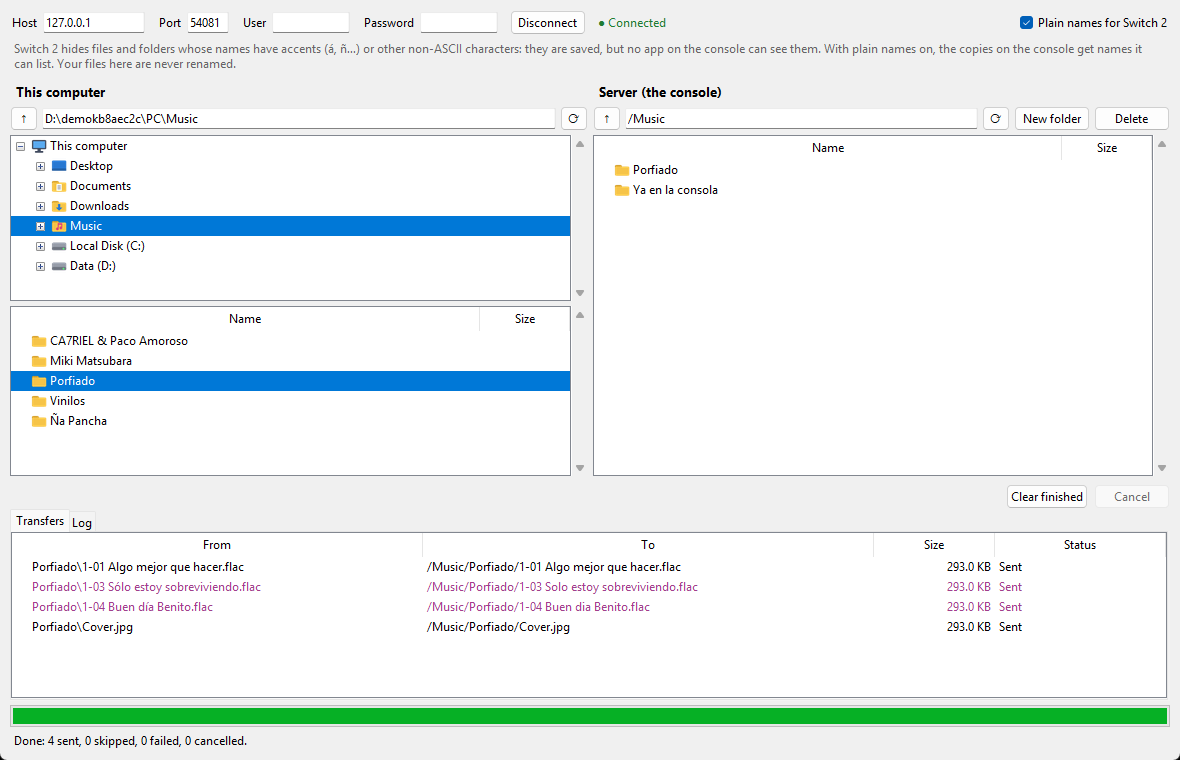
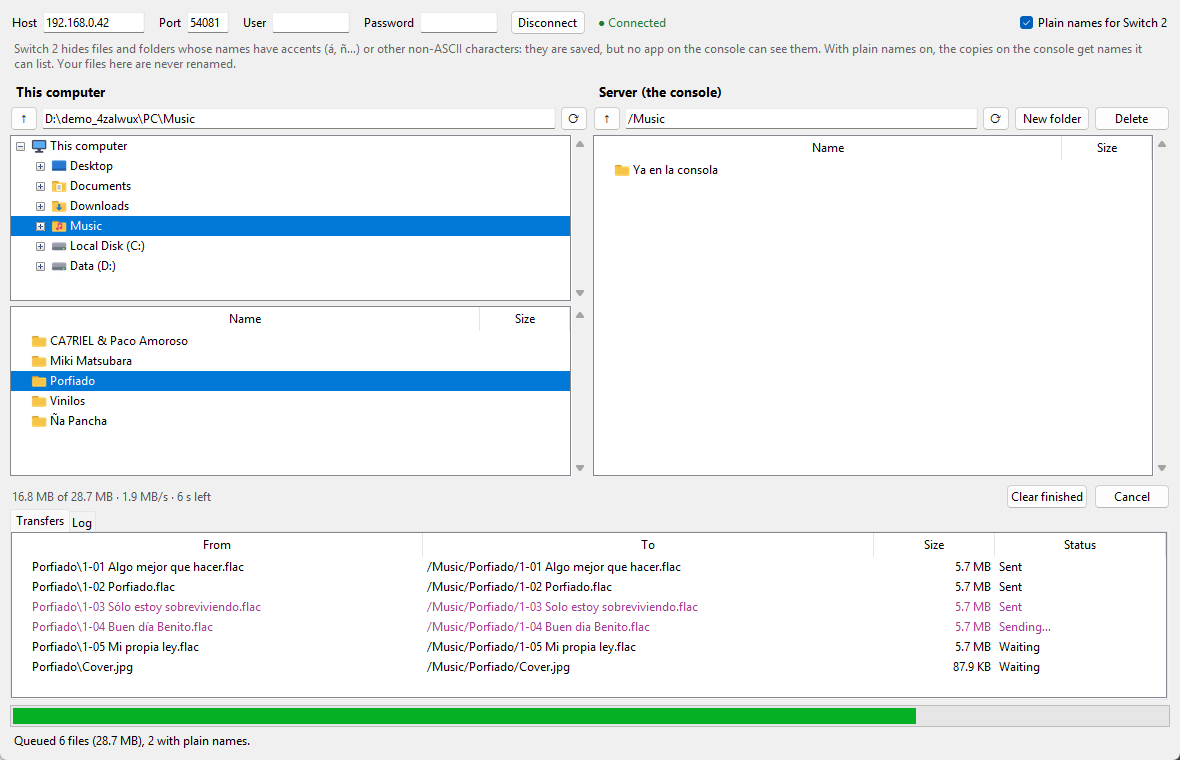
chore: KaiDrop 1.0.0
No longer a work in progress: tested on a Switch 2 with over a gigabyte
of music and a transfer cut halfway and continued after reconnecting.
New screenshot, mid-send with the speed and time left.

diff --git a/kaidrop/__init__.py b/kaidrop/__init__.py
@@ -1,3 +1,3 @@
 """KaiDrop: send music to a Switch 2 over FTP, with names the console can list."""
 
-__version__ = "0.4.0"
+__version__ = "1.0.0"

diff --git a/README.md b/README.md
@@ -3,8 +3,8 @@
 **Send music (or anything) from your computer to a Switch 2 running kaiHEN,
 over FTP — with file names the console can actually list.**
 
-> **Work in progress.** Sending and receiving work (tested with over a
-> gigabyte of music on a Switch 2).
+Tested on a Switch 2 with OunceShell's FTP server: over a gigabyte of
+music, and a transfer cut halfway and continued after reconnecting.
 
 ![KaiDrop](docs/kaidrop.png)
 
